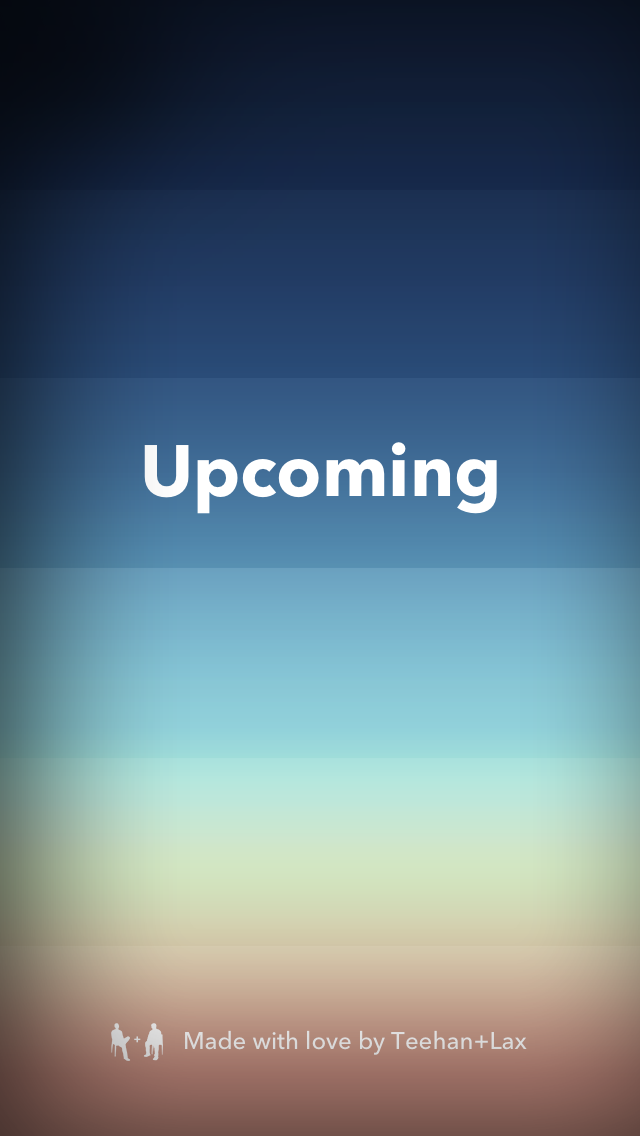
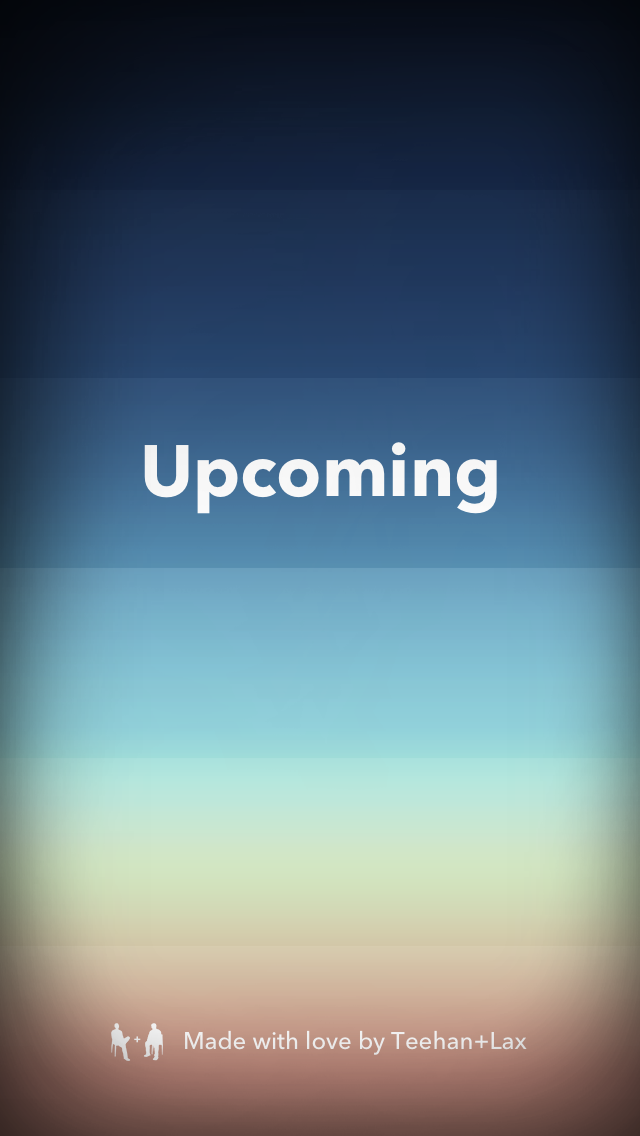
New splash screens.

Changed region(s): [[0.875, 0.1849, 1.0, 1.0], [0.0312, 0.5854, 0.1875, 0.8319]]

diff --git a/Upcoming/TLAppDelegate+Sounds.m b/Upcoming/TLAppDelegate+Sounds.m
@@ -12,7 +12,7 @@
 
 static SystemSoundID touchDownSoundID;
 static SystemSoundID touchUpSoundID;
-static SystemSoundID touchNewHourSoundID;
+//static SystemSoundID touchNewHourSoundID;
 static SystemSoundID touchNewEventSoundID;
 static SystemSoundID pullMenuOutSoundID;
 static SystemSoundID pushMenuInSoundID;
